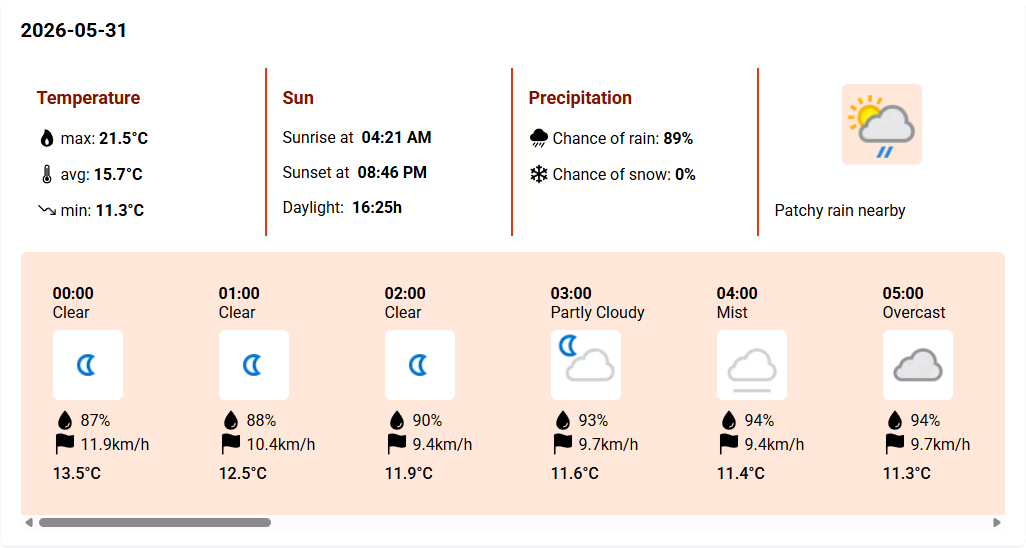
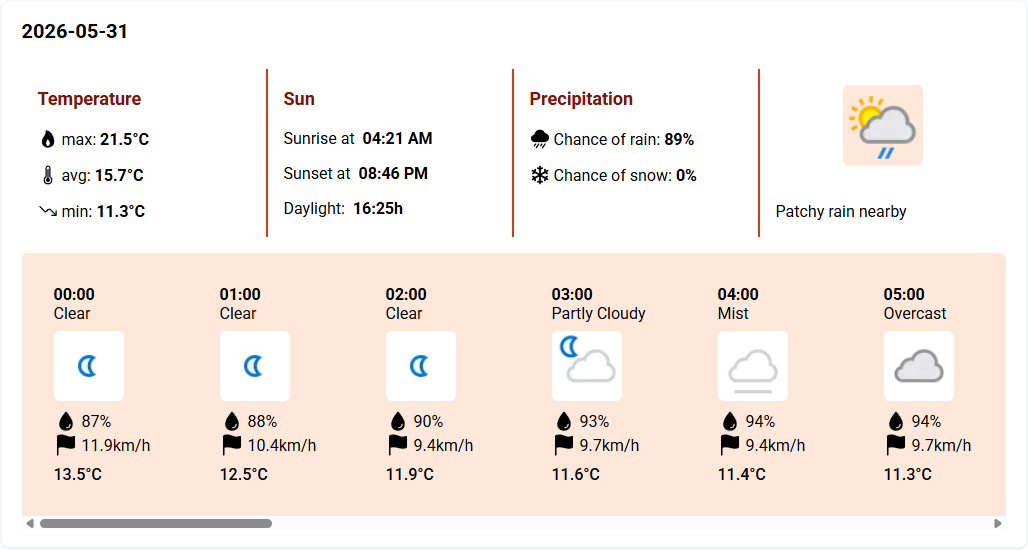
fixes, weather preview section

diff --git a/src/components/Home/WeatherPreview/WeatherPreview.tsx b/src/components/Home/WeatherPreview/WeatherPreview.tsx
@@ -1,5 +1,29 @@
+import SectionHeader from '@/components/common/SectionHeader/SectionHeader';
+import WeatherViewPreview from '@/assets/images/Screenshot_8_1.png';
+import HomePageFeature from '../HomePageFeature';
+
 function WeatherPreview() {
-  return;
+  return (
+    <section className='max-w-[1200px] py-32 mx-auto gap-24 max-[1200px]:flex-col max-[1200px]:max-w-2xl'>
+      <div className='mx-auto flex flex-col items-center'>
+        <SectionHeader
+          className='pb-2 text-center'
+          subheader='Weather'
+          header='Check the forecast'
+          type='large'
+        />
+        <p className='w-[560px] text-center pb-8'>
+          Here you can check the weather for the 3 closest days. You
+          can choose which citi&apos;s forecast you want to see on
+          your cards.
+        </p>
+        <img
+          src={WeatherViewPreview}
+          className='aspect-auto w-[900px] shadow-lg'
+        />
+      </div>
+    </section>
+  );
 }
 
 export default WeatherPreview;

diff --git a/src/components/Home/CommunityPerview/CommunityPreview.tsx b/src/components/Home/CommunityPerview/CommunityPreview.tsx
@@ -1,0 +1,18 @@
+import SectionHeader from '@/components/common/SectionHeader/SectionHeader';
+
+function CommuntityPreview() {
+  return (
+    <section className='bg-orange-vivid-050  py-32'>
+      <div className='max-w-[1200px] mx-auto'>
+        <SectionHeader
+          className='w-full pb-8 text-center'
+          subheader='Community'
+          header='Get in touch with your friends'
+          type='large'
+        />
+      </div>
+    </section>
+  );
+}
+
+export default CommuntityPreview;

diff --git a/src/components/Home/HomePageFeature.tsx b/src/components/Home/HomePageFeature.tsx
@@ -3,11 +3,15 @@ function HomePageFeature({
   header,
   text,
   dark,
+  iconAbove,
+  centered,
 }: {
   icon: string;
   header: string;
   text: string;
   dark?: boolean;
+  iconAbove?: boolean;
+  centered?: boolean;
 } & React.HtmlHTMLAttributes<HTMLDivElement>) {
   return (
     <div
@@ -17,8 +21,13 @@ function HomePageFeature({
           : '[&_ion-icon]:text-orange-vivid-400 [&_ion-icon]:bg-orange-vivid-100'
       }`}
     >
-      <ion-icon name={icon} />
-      <div className='flex flex-col'>
+      {!iconAbove && <ion-icon name={icon} />}
+      <div
+        className={`flex flex-col ${
+          centered ? 'items-center text-center' : ''
+        }`}
+      >
+        {iconAbove && <ion-icon name={icon} />}
         <h4 className='text-lg font-bold text-orange-vivid-900'>
           {header}
         </h4>

diff --git a/src/components/Home/TimersPreview/TimersPreview.tsx b/src/components/Home/TimersPreview/TimersPreview.tsx
@@ -30,12 +30,18 @@ function TimersPreview() {
                 icon='swap-horizontal'
                 text='In both modes you can drag and arange your timers.'
               />
+              <HomePageFeature
+                dark
+                header='Stopwatch'
+                icon='stopwatch'
+                text='Moreover, you can also use a stopwatch.'
+              />
             </div>
           </div>
           <div className='relative w-full'>
             <img
               src={timersPreviewTwo}
-              className='aspect-auto w-full'
+              className='aspect-auto w-full shadow-md'
             />
             {/* <img
             src={timersPreview}

diff --git a/src/components/Home/CardsPreview/CardsPreview.tsx b/src/components/Home/CardsPreview/CardsPreview.tsx
@@ -7,7 +7,10 @@ function CardsPreview() {
     <section className='max-w-[1200px] py-32 mx-auto flex gap-24 max-[1200px]:flex-col max-[1200px]:max-w-2xl'>
       <div className='w-full relative'>
         {/* <div className='absolute rounded-full bg-orange-vivid-400 h-[600px] w-[600px] inset-1/2 -translate-x-1/2 -translate-y-1/2 -z-10 bg-[radial-gradient(169.40%_89.55%_at_94.76%_6.29%,rgba(0,0,0,0.40)_0%,rgba(255,255,255,0.00)_100%)]' /> */}
-        <img src={cardsPreviewTwo} className='aspect-auto w-full ' />
+        <img
+          src={cardsPreviewTwo}
+          className='aspect-auto w-full shadow-md'
+        />
       </div>
       <div className='w-full'>
         <SectionHeader

diff --git a/src/pages/HomePage.tsx b/src/pages/HomePage.tsx
@@ -6,6 +6,8 @@ import { auth } from '../config/firebase';
 import { useNavigate } from 'react-router-dom';
 import CardsPreview from '@/components/Home/CardsPreview/CardsPreview';
 import TimersPreview from '@/components/Home/TimersPreview/TimersPreview';
+import WeatherPreview from '@/components/Home/WeatherPreview/WeatherPreview';
+import CommuntityPreview from '@/components/Home/CommunityPerview/CommunityPreview';
 
 function HomePage() {
   const navigate = useNavigate();
@@ -23,6 +25,8 @@ function HomePage() {
       <Hero />
       <CardsPreview />
       <TimersPreview />
+      <WeatherPreview />
+      <CommuntityPreview />
     </>
   );
 }

diff --git a/src/components/common/SectionHeader/SectionHeader.tsx b/src/components/common/SectionHeader/SectionHeader.tsx
@@ -27,7 +27,7 @@ function SectionHeader({
               ? 'text-3xl'
               : type === 'medium' && 'text-xl'
           } text-orange-vivid-900 ${
-            userVerified && 'dark:text-white'
+            userVerified ? 'dark:text-white' : ''
           }`
         )}
       >

diff --git a/src/components/UI/Footer/Footer.tsx b/src/components/UI/Footer/Footer.tsx
@@ -3,6 +3,7 @@ import { Link } from 'react-router-dom';
 function Footer() {
   return (
     <footer className='sticky top-full w-full py-32 px-0 text-base text-cool-grey-600 bg-cool-grey-050 border-t-2 border-x-0 border-b-0 border-cool-grey-200 border-solid [&_h6]:mb-9 [&_h6]:text-xl [&_h6]:font-medium [&_h6]:text-cool-grey-700 [&_a]:text-base [&_a]:text-cool-grey-600 [&_a]:no-underline hover:[&_a]:text-cool-grey-800'>
+      <p>Add the github link, info about what was used etc</p>
       <div className='grid grid-cols-6 max-w-[1200px] my-0 mx-auto py-0 px-8 gap-y-24 gap-x-16 max-[1100px]:grid-rows-2 max-[1100px]:grid-cols-6 max-[1100px]:gap-y-16 max-[1100px]:gap-x-12 '>
         <div
           className={